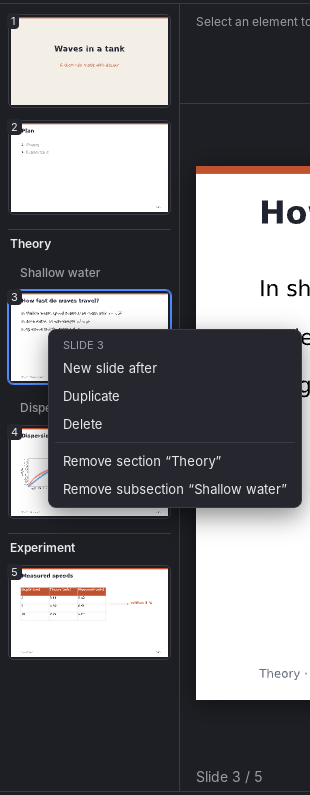
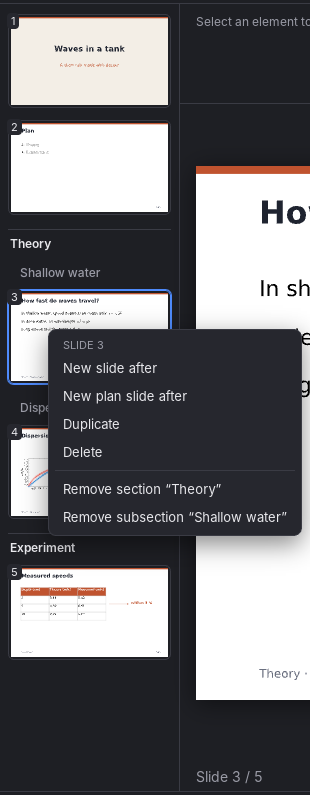
editor: slide commands live in the right-click menus
The toolbar's + Slide, Duplicate and − Slide repeated the thumbnail menu
and go; + Plan becomes "New plan slide" in the thumbnail menu and in the
menu between thumbnails. Help list, keys page, manual (slides, layouts,
editor tour, tutorial), screenshots and an end-to-end test follow.

Claude-Session: https://claude.ai/code/session_01Td787UY2Ud8GSb917s6rb9

Changed region(s): [[0.1452, 0.5736, 1.0, 0.6943], [0.2032, 0.483, 0.4935, 0.6038], [0.5226, 0.483, 0.6097, 0.5132]]

diff --git a/apps/deck-app/src/lib/Editor.svelte b/apps/deck-app/src/lib/Editor.svelte
@@ -360,13 +360,16 @@
     if (at === 0) await api.moveSlide(1, 0);
     return at;
   }
-  function onGap(what: "slide" | "section" | "subsection") {
+  function onGap(what: "slide" | "plan" | "section" | "subsection") {
     const at = gapMenu!.at;
     gapMenu = null;
     enqueue(async () => {
-      await run(what === "slide" ? "Added slide" : `Added ${what}`, async () => {
+      await run(what === "slide" ? "Added slide" : what === "plan" ? "Added plan slide" : `Added ${what}`, async () => {
         const k = await slideAt(at);
-        if (what !== "slide") {
+        if (what === "plan") {
+          await api.goto(k);
+          await api.addOutline();
+        } else if (what !== "slide") {
           await api.setSectionOf(k, what === "section" ? "Section" : null, what === "subsection" ? "Subsection" : null);
           renaming = { slide: k, level: what };
           queueMicrotask(() => { renameInput?.focus(); renameInput?.select(); });
@@ -918,12 +921,8 @@
       <button onclick={() => enqueue(() => run("Added table", () => api.addTable(3, 3)).then(selectAdded))} title="A table of 3 by 3 cells with a header row; edit it in the panel">+ Table</button>
       <button onclick={addMedia} title="A video or an animated GIF; images and clips can also be pasted or dropped">+ Video…</button>
       <button onclick={() => run("Added figure", api.addFigure)} title="A Typst figure: CeTZ drawings and plots, edited as source in the panel">+ Figure</button>
-      <button onclick={() => run("Added outline", api.addOutline)} title="The sections, the current one highlighted: a plan slide">+ Plan</button>
       {#if selection.length >= 2}<button onclick={groupSelection} title="Group the selected elements (Ctrl+G)">Group</button>{/if}
       {#if sel?.kind === "group"}<button onclick={ungroupSelection} title="Ungroup (Ctrl+Shift+G)">Ungroup</button>{/if}
-      <button onclick={() => run("Added slide", api.addSlide)}>+ Slide</button>
-      <button onclick={() => run("Duplicated slide", api.duplicateSlide)}>Duplicate</button>
-      <button onclick={() => run("Deleted slide", api.deleteSlide)}>− Slide</button>
       <button onclick={pickDeck} disabled={!view.dir}>Insert from deck…</button>
       {#if view.presenting}
         <button class="primary" onclick={() => api.stopPresentation()}>Stop (Esc)</button>
@@ -1270,6 +1269,7 @@
     <div class="context-menu" role="menu" style="left: {g.x}px; top: {g.y}px">
       <div class="menu-title">{g.at >= view.slide_count ? "At the end" : `Before slide ${g.at + 1}`}</div>
       <button role="menuitem" onclick={() => onGap("slide")}>New slide</button>
+      <button role="menuitem" title="A slide listing the sections, the current one highlighted" onclick={() => onGap("plan")}>New plan slide</button>
       <button role="menuitem" onclick={() => onGap("section")}>New section</button>
       <button role="menuitem" onclick={() => onGap("subsection")}>New subsection</button>
     </div>
@@ -1284,6 +1284,7 @@
     <div class="context-menu" role="menu" style="left: {m.x}px; top: {m.y}px">
       <div class="menu-title">Slide {m.slide + 1}</div>
       <button role="menuitem" onclick={() => onSlide("Added slide", api.addSlide)}>New slide after</button>
+      <button role="menuitem" title="A slide listing the sections, the current one highlighted" onclick={() => onSlide("Added plan slide", async () => { await api.addSlide(); await api.addOutline(); })}>New plan slide after</button>
       <button role="menuitem" onclick={() => onSlide("Duplicated slide", api.duplicateSlide)}>Duplicate</button>
       <button role="menuitem" disabled={view.slide_count <= 1} onclick={() => onSlide("Deleted slide", api.deleteSlide)}>Delete</button>
       <hr />

diff --git a/apps/deck-app/src/lib/Help.svelte b/apps/deck-app/src/lib/Help.svelte
@@ -8,10 +8,9 @@
     ]],
     ["Slides", [
       ["Click a thumbnail", "Go to that slide"],
-      ["Right-click between or below thumbnails", "New slide, new section or new subsection there (a section starts with a new slide)"],
-      ["Right-click a thumbnail", "New slide after, duplicate, delete, start or remove a section or subsection"],
+      ["Right-click between or below thumbnails", "New slide, new plan slide, new section or new subsection there (a section starts with a new slide)"],
+      ["Right-click a thumbnail", "New slide or plan slide after, duplicate, delete, start or remove a section or subsection"],
       ["Drag a thumbnail · Ctrl+Up / Ctrl+Down", "Reorder slides; sections travel with their first slide"],
-      ["+ Slide · Duplicate · − Slide", "New slide from the current layout; copy; remove"],
       ["Page Up / Page Down", "Previous or next slide"],
       ["Insert from deck…", "Copy slides from another deck, with their images and layouts"],
       ["+ section · + subsection (hover a thumbnail)", "Start a section there; click a header to rename, clear to remove"],
@@ -25,7 +24,7 @@
       ["Group · Ungroup (Ctrl+G · Ctrl+Shift+G)", "Several elements become one, moved, resized and animated together"],
       ["+ Table", "A table with a header row; double-click a cell to type in it (Tab: next cell); rows, columns, widths and fills in the panel, the rules in the arrange bar"],
       ["+ Shape", "A rectangle, an ellipse, a line or an arrow in the theme's accent color; the style bar sets fill, outline and, for lines, the direction"],
-      ["+ Text · + Plan · + Figure", "A text box; the sections list with the current one highlighted; a Typst figure (CeTZ plots and drawings) edited as source"],
+      ["+ Text · + Figure", "A text box; a Typst figure (CeTZ plots and drawings) edited as source"],
       ["Ctrl+Z · Ctrl+Y (or Ctrl+Shift+Z)", "Undo and redo any edit of the deck; a run of typing in one box is one step"],
       ["Ctrl+C · Ctrl+X · Ctrl+V", "Copy or cut the selected elements; paste them (also into another deck or slide, images shared within a deck, copied across decks), a clipboard image, or text into the box being edited"],
       ["Drop a file · + Video…", "Drop image, video or GIF files on the canvas where they should go, or pick a clip"],

diff --git a/tests/e2e/test_editor.py b/tests/e2e/test_editor.py
@@ -126,6 +126,21 @@ class Thumbnails(EditorTest):
         self.assertEqual(self.view()["elements"][0]["text"], "Measured speeds")
 
 
+class SlideMenus(EditorTest):
+    def test_a_plan_slide_from_the_thumbnail_menu(self):
+        e = self.e
+        x, y = e.rect(".stack-item[data-index='2'] .thumb")[:2]
+        e.pointer(x + 40, y + 40, button=2)
+        e.s.js("[...document.querySelectorAll('.context-menu button')].find(b => b.textContent.trim() === 'New plan slide after').click(); return true")
+        e.settle(1.5)
+        v = self.view()
+        self.assertEqual((v["slide_count"], v["slide"]), (6, 3), "a new slide after slide 3, shown")
+        self.assertIn("outline", [x["kind"] for x in v["elements"]])
+        self.assertFalse(e.s.js("return [...document.querySelectorAll('header button, .toolbar button')]"
+                                ".some(b => ['+ Plan', '+ Slide', '− Slide'].includes(b.textContent.trim()))"),
+                         "those are in the menus now")
+
+
 class Presenting(EditorTest):
     def env(self):
         return {"DECKER_PRESENT": "both", "DECKER_WINDOWED": "1"}

diff --git a/docs/src/keys.md b/docs/src/keys.md
@@ -18,10 +18,9 @@ The same list as the editor's help (**F1** or **?**). Generated from the editor'
 | Key or control | Does |
 | --- | --- |
 | Click a thumbnail | Go to that slide |
-| Right-click between or below thumbnails | New slide, new section or new subsection there (a section starts with a new slide) |
-| Right-click a thumbnail | New slide after, duplicate, delete, start or remove a section or subsection |
+| Right-click between or below thumbnails | New slide, new plan slide, new section or new subsection there (a section starts with a new slide) |
+| Right-click a thumbnail | New slide or plan slide after, duplicate, delete, start or remove a section or subsection |
 | Drag a thumbnail · Ctrl+Up / Ctrl+Down | Reorder slides; sections travel with their first slide |
-| + Slide · Duplicate · − Slide | New slide from the current layout; copy; remove |
 | Page Up / Page Down | Previous or next slide |
 | Insert from deck… | Copy slides from another deck, with their images and layouts |
 | + section · + subsection (hover a thumbnail) | Start a section there; click a header to rename, clear to remove |
@@ -38,7 +37,7 @@ The same list as the editor's help (**F1** or **?**). Generated from the editor'
 | Group · Ungroup (Ctrl+G · Ctrl+Shift+G) | Several elements become one, moved, resized and animated together |
 | + Table | A table with a header row; double-click a cell to type in it (Tab: next cell); rows, columns, widths and fills in the panel, the rules in the arrange bar |
 | + Shape | A rectangle, an ellipse, a line or an arrow in the theme's accent color; the style bar sets fill, outline and, for lines, the direction |
-| + Text · + Plan · + Figure | A text box; the sections list with the current one highlighted; a Typst figure (CeTZ plots and drawings) edited as source |
+| + Text · + Figure | A text box; a Typst figure (CeTZ plots and drawings) edited as source |
 | Ctrl+Z · Ctrl+Y (or Ctrl+Shift+Z) | Undo and redo any edit of the deck; a run of typing in one box is one step |
 | Ctrl+C · Ctrl+X · Ctrl+V | Copy or cut the selected elements; paste them (also into another deck or slide, images shared within a deck, copied across decks), a clipboard image, or text into the box being edited |
 | Drop a file · + Video… | Drop image, video or GIF files on the canvas where they should go, or pick a clip |

diff --git a/docs/src/editor.md b/docs/src/editor.md
@@ -7,7 +7,7 @@ The editor is one window in five areas.
 ```text
 ┌────────────────────────────────────────────────────────────────────────────┐
 │ ① New  Open file…  Open .deck folder…  Save  Save as…  Export…   ↶ ↷ ?    │
-│ ② + Text + Shape + Table + Video… + Figure + Plan  + Slide …   Present     │
+│ ② + Text + Shape + Table + Video… + Figure  Insert from deck…  Present     │
 ├──────────┬──────────────────────────────────────────────┬──────────────────┤
 │ ③        │ ④ style bar · arrange bar                    │ ⑤                │
 │ thumb-   │ ┌──────────────────────────────────────────┐ │ properties of    │
@@ -21,11 +21,12 @@ The editor is one window in five areas.
 
 1. **The deck bar**: open, save and export the deck; undo and redo; **?** opens the list of
    [commands and keys](keys.md) (also **F1**).
-2. **The insert bar**: add elements to the slide, add or remove slides, start the
+2. **The insert bar**: add elements to the slide, insert slides from another deck, start the
    presentation. While a layout is being edited, it holds the layout's own commands
    (placeholders, save and load, **Done**).
 3. **The thumbnail pane**: one thumbnail per slide under its section headers. Click to go,
-   drag to reorder, right-click for the slide menu; see [Slides and sections](slides.md).
+   drag to reorder; right-click a thumbnail to add, duplicate or delete slides, or between
+   thumbnails to add a slide, a plan slide or a section; see [Slides and sections](slides.md).
 4. **The canvas**: the current slide, edited directly. Above it, the **style bar** (font,
    size, color, alignment, bullets, fill and outline) and the **arrange bar** (align,
    distribute, mirror, order, stroke) act on the selection; below it, **◀ ▶** show the slide

diff --git a/docs/src/slides.md b/docs/src/slides.md
@@ -8,13 +8,14 @@ The left column lists the slides. Click one to edit it.
 
 - **Reorder** by dragging a thumbnail, or with Ctrl+Up and Ctrl+Down on the current slide.
   Sections move with the slide that starts them.
-- **Right-click a thumbnail** for its menu: new slide after it, duplicate, delete, and start or
+- **Right-click a thumbnail** for its menu: new slide or new plan slide after it, duplicate,
+  delete, and start or
   remove a section or subsection there. A duplicate belongs to its original's section.
-- **Right-click between or below thumbnails** to add a new slide, a new section or a new
-  subsection at that place. A section always starts at a slide, so a new section or
+- **Right-click between or below thumbnails** to add a new slide, a new plan slide, a new
+  section or a new subsection at that place. A section always starts at a slide, so a new section or
   subsection comes with its first slide, its name ready to type.
-- The toolbar's **+ Slide**, **Duplicate** and **− Slide** act on the current slide. A new
-  slide starts from the current slide's [layout](layouts.md): one text box per placeholder.
+- A new slide starts from the [layout](layouts.md) of the slide before it: one text box per
+  placeholder.
 - Page Up and Page Down change slide.
 
 ## Sections
@@ -37,7 +38,8 @@ Sections are used in four places:
 
 ## The plan slide
 
-**+ Plan** adds an outline element to the current slide: the list of sections, numbered, the
+**New plan slide** (right-click a thumbnail, or between thumbnails) adds a slide holding an
+outline: the list of sections, numbered, the
 section the slide belongs to in bold and the others in gray, with the subsections of the
 current section under it (the current subsection in bold). The highlight follows the slide's
 position in the deck, so build the plan slide once, duplicate it and drag a copy to the start

diff --git a/docs/src/first-deck.md b/docs/src/first-deck.md
@@ -20,7 +20,7 @@ side panel's **Layout** selector. See [Layouts and themes](layouts.md) and
 
 ## 3. Bullets and a formula
 
-Click **+ Slide**: the new slide starts from the layout, with a title and a body placeholder.
+Right-click the slide's thumbnail and choose **New slide after**: the new slide starts from the layout, with a title and a body placeholder.
 Double-click the title, type `Waves in a tank`, press Escape. Double-click the body and type:
 
 ```text
@@ -43,8 +43,8 @@ function, and the figure follows. See [Formulas and figures](formulas.md).
 ## 5. Sections
 
 Right-click the space below the thumbnails and choose **New section**; name it `Theory`.
-The section starts with a new slide. On the first slide, add a **+ Plan**: the list of
-sections, the current one highlighted, kept up to date. See
+The section starts with a new slide. Right-click the first thumbnail and choose **New plan
+slide after**: a slide listing the sections, the current one highlighted, kept up to date. See
 [Slides and sections](slides.md).
 
 ## 6. Build steps

diff --git a/docs/src/layouts.md b/docs/src/layouts.md
@@ -46,7 +46,7 @@ export produces real placeholders and how a slide keeps its link to the layout.
 
 - The right panel shows the slide's layout, with a selector to change it. Changing it keeps
   the slide's elements; placeholders are not re-created.
-- **+ Slide** creates the next slide from the current slide's layout: one text box per
+- **New slide** (right-click a thumbnail) creates the next slide from that slide's layout: one text box per
   placeholder, at the placeholder's position and style, showing the placeholder's name.
 
 ## Creating a layout
